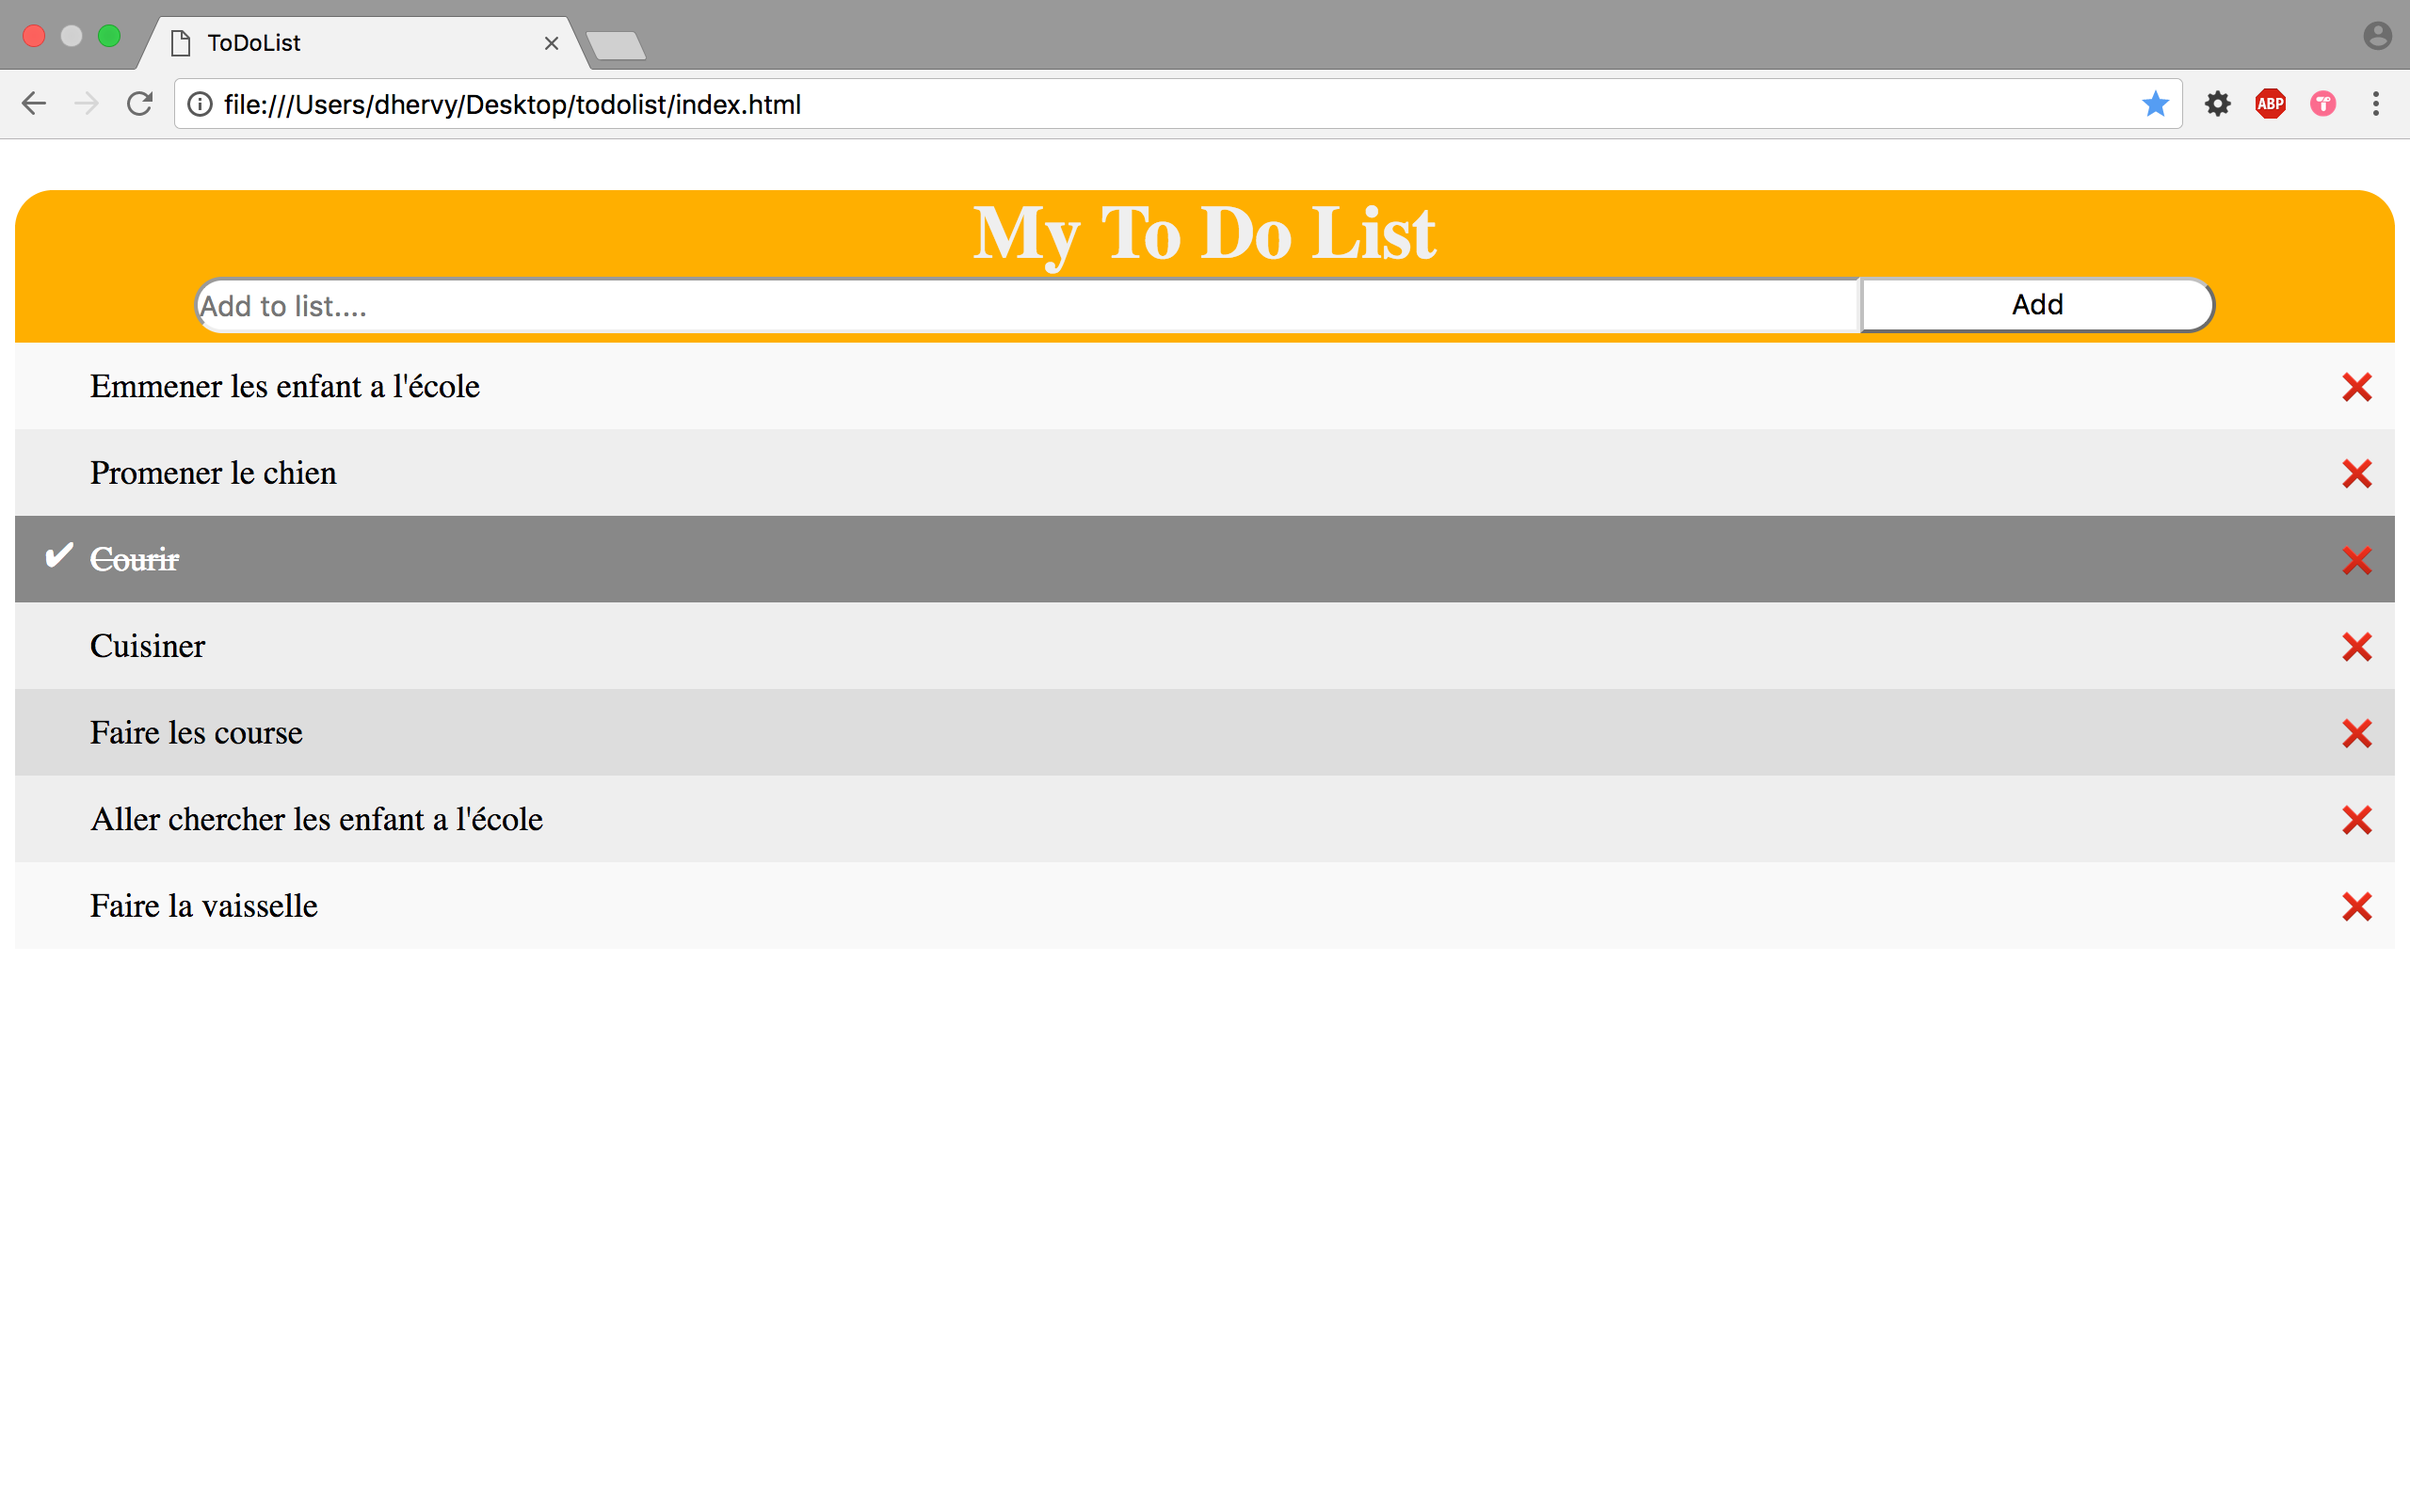
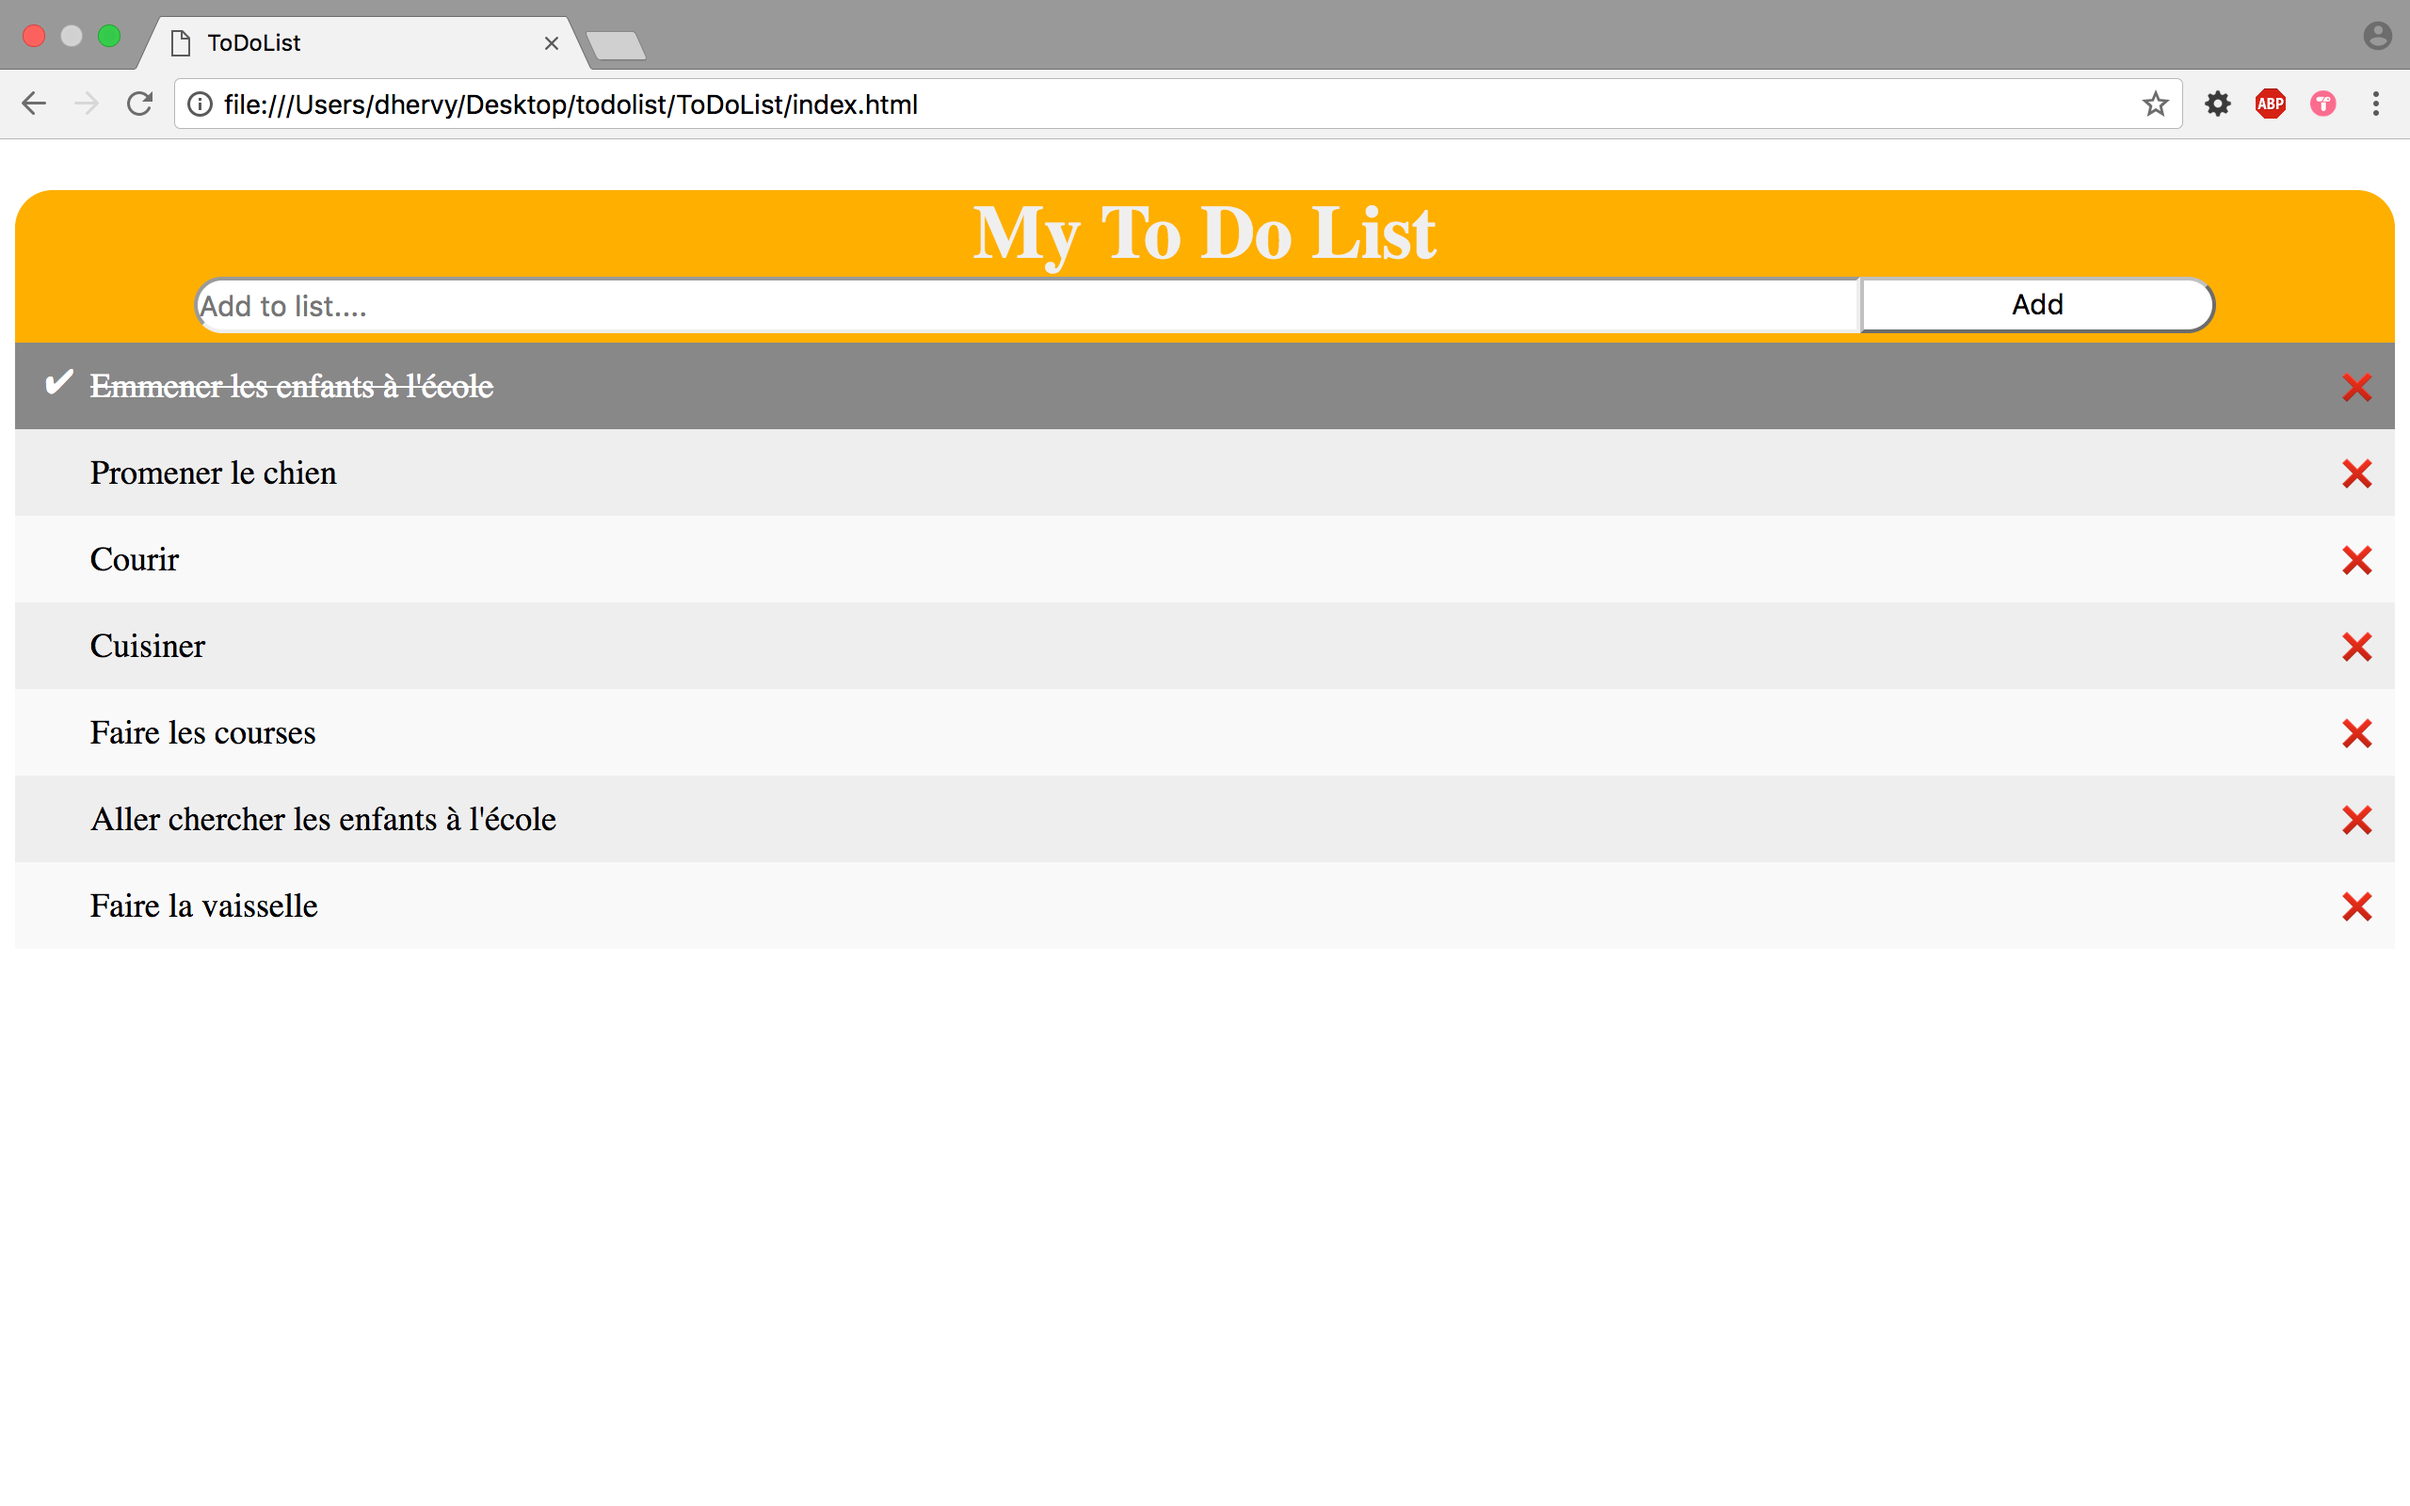
add

diff --git a/index.html b/index.html
@@ -13,12 +13,12 @@
     </div>
     <div id="list">
       <ul>
-        <li>Emmener les enfant a l'école</li>
+        <li>Emmener les enfants à l'école</li>
         <li>Promener le chien</li>
         <li class="checked">Courir</li>
         <li>Cuisiner</li>
-        <li>Faire les course</li>
-        <li>Aller chercher les enfant a l'école</li>
+        <li>Faire les courses</li>
+        <li>Aller chercher les enfants à l'école</li>
         <li>Faire la vaisselle</li>
       </ul>
     </div>
